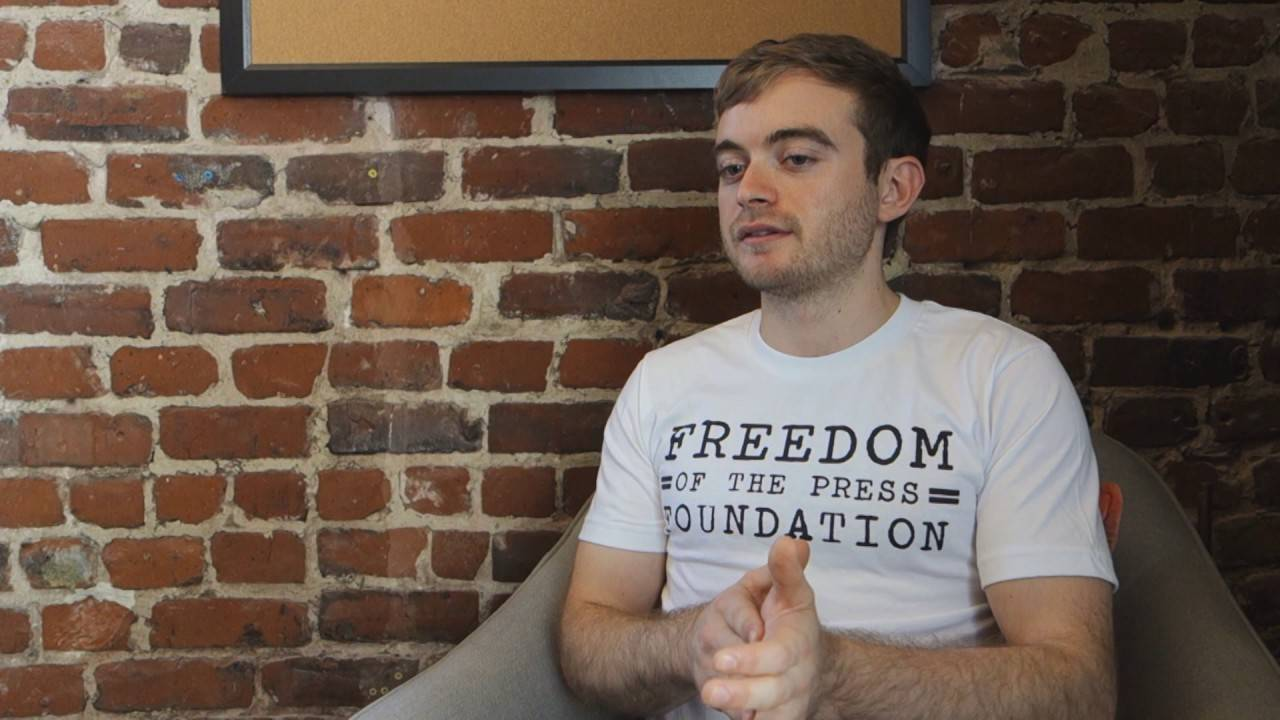
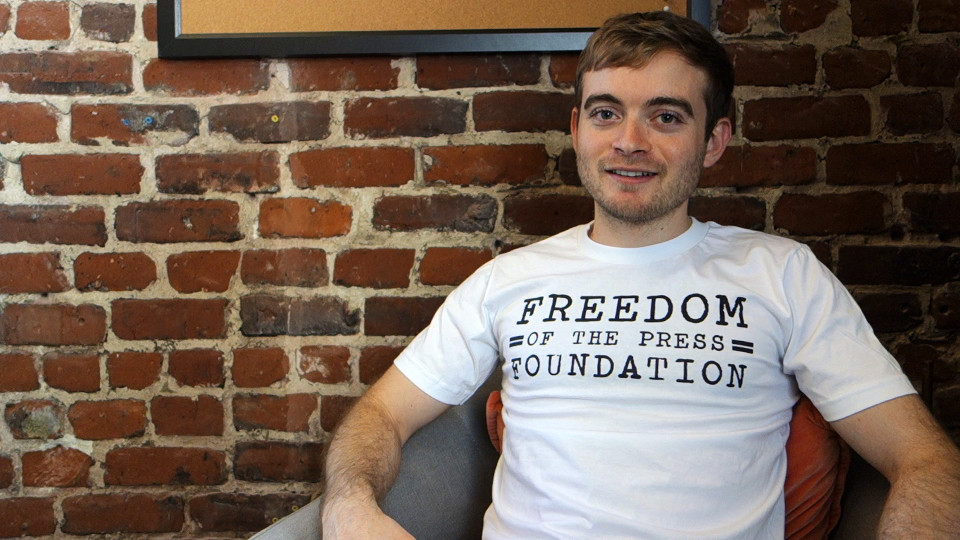
campaign: Change video of the day to Noah Vesely (SecureDrop)

diff --git a/web/share/campaign/campaign.js b/web/share/campaign/campaign.js
@@ -89,14 +89,14 @@ function get_param_from_url(name) {
 $(document).ready(function() {
 
     // VOTD: Update VOTD here.
-    let VIDLIST = "c5,jochim,john,jason,sze,rysiek,ksenia,cindy,matt,thenmozhi,alex,andre,benjamin";
+    let VIDLIST = "noah,c5,jochim,john,jason,sze,rysiek,ksenia,cindy,matt,thenmozhi,alex,andre,benjamin";
 
     let YTID = { "main": "wNHhkntqklg",
 		 "thenmozhi": "sQMj332dgIE",
 		 "sze": "OpeFuKRYGVA",
 		 "sheera": "zwPaVA4vhDM",
 		 "seanus": "H6iO_MkOICM",
-		 "noah": "neibFsqgxgw",
+		 "noah": "xB6AvoeCWro",
 		 "michael": "w4PY1ihLm0w",
 		 "matt": "5MCGTd8pOG4",
 		 "lisa": "Vd8sz5X-1og",
